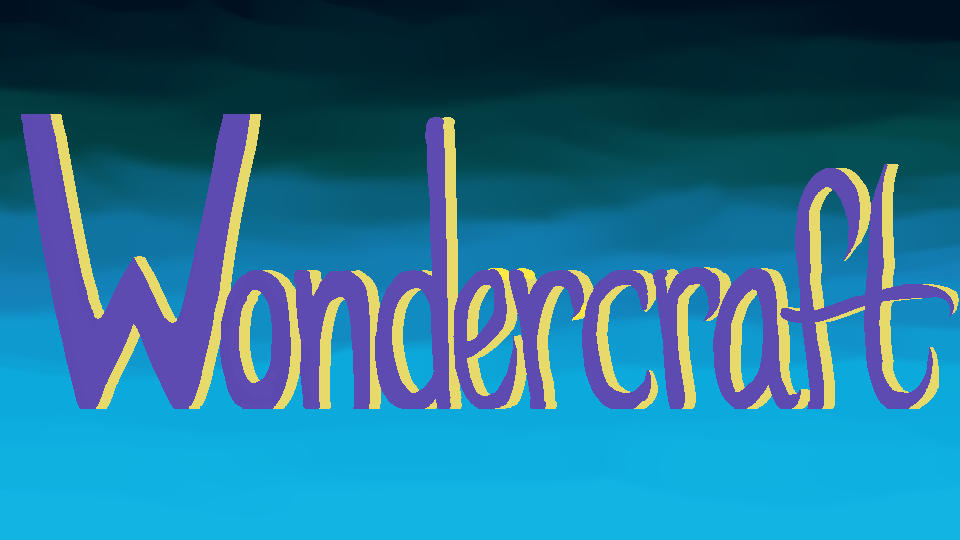
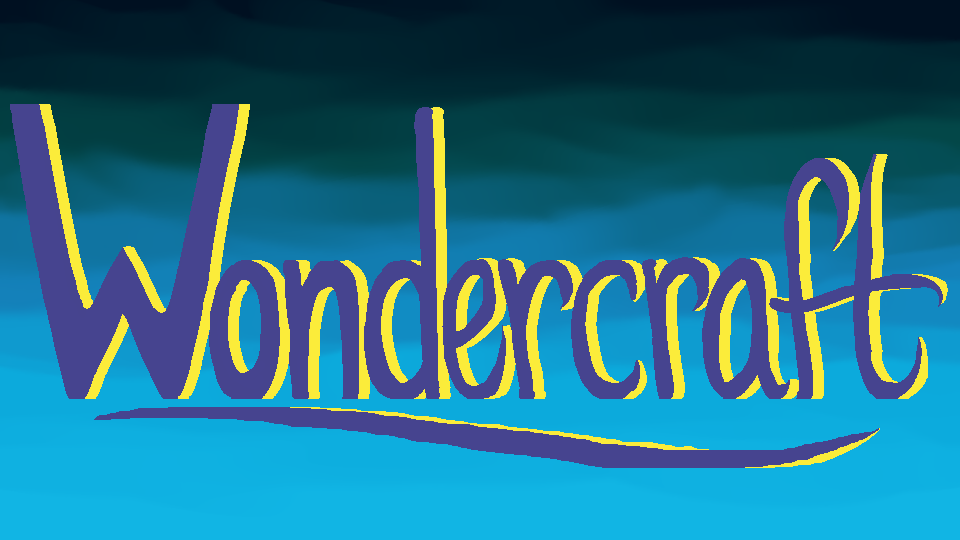
We have a titlescreen now. Hit enter to start the gaaame. also commented out the print statements, they still exist dont be mad at me plz nathan :3  (i hope this doesnt fuck up horribly oh god).

Changed region(s): [[0.0, 0.1778, 1.0, 0.8889]]

diff --git a/Wondercraft/Wondercraft/View.cpp b/Wondercraft/Wondercraft/View.cpp
@@ -22,6 +22,7 @@ View::View(Model* model) {
 	initMenuArray();
 
 	background.setTexture(*(levelTextures->get("bg.png")));
+	title.setTexture(*(menuTextures->get("titleScreen.png")));
 	
 	/*player.setTexture(*(spriteTextures->get("player.png")));
 	player.setOrigin(player.getLocalBounds().width / 2, player.getLocalBounds().height / 2); */
@@ -155,94 +156,99 @@ sf::Vector2f View::getStartingPos() {
 void View::render() {
 	window.clear();
 	
-	updateTiles();
-
-	//create a new render state for the camera displacement
-	sf::RenderStates cameraState;
-	cameraState.transform.translate(-getStartingPos() * TILE_SIZE);
-	//std::cout << -getStartingPos().x * TILE_SIZE + model->player->position.x * TILE_SIZE << " : " << getStartingPos().y * TILE_SIZE + model->player->position.y * TILE_SIZE << std::endl;
-
-	//draw background	
-	window.draw(background);
-
-	//draw tiles
-	for (int x = 0; x < displaySprites.size(); x++) {
-		for (int y = 0; y < displaySprites[x].size(); y++) {
-			window.draw(displaySprites[x][y]);
-		}
+	if (model->gameState == GameState::TITLE) {
+		window.draw(title);
 	}
+	else {
+		updateTiles();
 
-	//draw player
-	playerHat.setPosition(model->player->getPosition() * TILE_SIZE);
-	playerHat.setScale(model->player->facingRight ? 1 : -1, 1);
-	window.draw(playerHat, cameraState);
+		//create a new render state for the camera displacement
+		sf::RenderStates cameraState;
+		cameraState.transform.translate(-getStartingPos() * TILE_SIZE);
+		//std::cout << -getStartingPos().x * TILE_SIZE + model->player->position.x * TILE_SIZE << " : " << getStartingPos().y * TILE_SIZE + model->player->position.y * TILE_SIZE << std::endl;
 
-	playerRobe.setPosition(model->player->getPosition() * TILE_SIZE);
-	playerRobe.setScale(model->player->facingRight ? 1 : -1, 1);
-	window.draw(playerRobe, cameraState);
+		//draw background	
+		window.draw(background);
 
-	playerStaff.setPosition(model->player->getPosition() * TILE_SIZE);
-	playerStaff.setScale(model->player->facingRight ? 1 : -1, 1);
-	window.draw(playerStaff, cameraState);
-
-	//draw player projectiles
-	for (int i = 0; i < model->playerProjectiles.size(); i++) {
-		sf::Sprite projectile;
-		projectile.setTexture(*spriteTextures->get("fireball.png"));
-		projectile.setPosition(model->playerProjectiles[i]->getPosition() * TILE_SIZE);
-		window.draw(projectile, cameraState);
-	}
-
-	//draw enemies
-	for (int i = 0; i < model->enemies.size(); i++) {
-		sf::Sprite enemy;
-		enemy.setTexture(*spriteTextures->get("goober1.png"));
-		enemy.setPosition(model->enemies[i]->getPosition() * TILE_SIZE);
-		window.draw(enemy, cameraState);
-	}
-
-	if (model->gameState == GameState::INVENTORY) { //drawing the pause menu
-		window.draw(menu);
-
-		for (int i = 0; i < menuSquares1.size(); i++) {
-			for (int j = 0; j < menuSquares1[i].size(); j++) {
-				window.draw(menuSquares1[i][j]);
+		//draw tiles
+		for (int x = 0; x < displaySprites.size(); x++) {
+			for (int y = 0; y < displaySprites[x].size(); y++) {
+				window.draw(displaySprites[x][y]);
 			}
 		}
 
-		for (int i = 0; i < menuSquares2.size(); i++) {
-			for (int j = 0; j < menuSquares2[i].size(); j++) {
-				window.draw(menuSquares2[i][j]);
+		//draw player
+		playerHat.setPosition(model->player->getPosition() * TILE_SIZE);
+		playerHat.setScale(model->player->facingRight ? 1 : -1, 1);
+		window.draw(playerHat, cameraState);
+
+		playerRobe.setPosition(model->player->getPosition() * TILE_SIZE);
+		playerRobe.setScale(model->player->facingRight ? 1 : -1, 1);
+		window.draw(playerRobe, cameraState);
+
+		playerStaff.setPosition(model->player->getPosition() * TILE_SIZE);
+		playerStaff.setScale(model->player->facingRight ? 1 : -1, 1);
+		window.draw(playerStaff, cameraState);
+
+		//draw player projectiles
+		for (int i = 0; i < model->playerProjectiles.size(); i++) {
+			sf::Sprite projectile;
+			projectile.setTexture(*spriteTextures->get("fireball.png"));
+			projectile.setPosition(model->playerProjectiles[i]->getPosition() * TILE_SIZE);
+			window.draw(projectile, cameraState);
+		}
+
+		//draw enemies
+		for (int i = 0; i < model->enemies.size(); i++) {
+			sf::Sprite enemy;
+			enemy.setTexture(*spriteTextures->get("goober1.png"));
+			enemy.setPosition(model->enemies[i]->getPosition() * TILE_SIZE);
+			window.draw(enemy, cameraState);
+		}
+
+		if (model->gameState == GameState::INVENTORY) { //drawing the pause menu
+			window.draw(menu);
+
+			for (int i = 0; i < menuSquares1.size(); i++) {
+				for (int j = 0; j < menuSquares1[i].size(); j++) {
+					window.draw(menuSquares1[i][j]);
+				}
 			}
-		}
 
-		for (int i = 0; i < menuSquares3.size(); i++) {
-			for (int j = 0; j < menuSquares3[i].size(); j++) {
-				window.draw(menuSquares3[i][j]);
+			for (int i = 0; i < menuSquares2.size(); i++) {
+				for (int j = 0; j < menuSquares2[i].size(); j++) {
+					window.draw(menuSquares2[i][j]);
+				}
 			}
-		}
 
-		//draws the player on the menu
-		sf::Vector2f invPlayerPos(185, 135);
-		playerHat.setPosition(invPlayerPos);
-		window.draw(playerHat);
-		playerRobe.setPosition(invPlayerPos);
-		window.draw(playerRobe);
-		playerStaff.setPosition(invPlayerPos);
-		window.draw(playerStaff);
+			for (int i = 0; i < menuSquares3.size(); i++) {
+				for (int j = 0; j < menuSquares3[i].size(); j++) {
+					window.draw(menuSquares3[i][j]);
+				}
+			}
 
-		//draws the selected square
-		if (model->menu.menuSide == MenuSide::EQUIPMENT) {
-			selected.setPosition(317, 3 + (SQUARE_SIZE_Y + 2) * model->menu.equipmentIndex);
+			//draws the player on the menu
+			sf::Vector2f invPlayerPos(185, 135);
+			playerHat.setPosition(invPlayerPos);
+			window.draw(playerHat);
+			playerRobe.setPosition(invPlayerPos);
+			window.draw(playerRobe);
+			playerStaff.setPosition(invPlayerPos);
+			window.draw(playerStaff);
+
+			//draws the selected square
+			if (model->menu.menuSide == MenuSide::EQUIPMENT) {
+				selected.setPosition(317, 3 + (SQUARE_SIZE_Y + 2) * model->menu.equipmentIndex);
+			}
+			else if (model->menu.menuSide == MenuSide::CRAFTING) {
+				selected.setPosition(528 + (SQUARE_SIZE_X + 57) * model->menu.craftingIndex, 136);
+			}
+			else if (model->menu.menuSide == MenuSide::INVENTORY) {
+				selected.setPosition(84 + (SQUARE_SIZE_X + 5) * model->menu.inventoryIndex.x,
+					280 + (SQUARE_SIZE_Y + 2) * model->menu.inventoryIndex.y);
+			}
+			window.draw(selected);
 		}
-		else if (model->menu.menuSide == MenuSide::CRAFTING) {
-			selected.setPosition(528 + (SQUARE_SIZE_X + 57) * model->menu.craftingIndex, 136);
-		}
-		else if (model->menu.menuSide == MenuSide::INVENTORY) {
-			selected.setPosition(84 + (SQUARE_SIZE_X + 5) * model->menu.inventoryIndex.x,
-								280 + (SQUARE_SIZE_Y + 2) * model->menu.inventoryIndex.y);
-		}
-		window.draw(selected);
 	}
     
 	window.display();

diff --git a/Wondercraft/Wondercraft/Player.cpp b/Wondercraft/Wondercraft/Player.cpp
@@ -24,20 +24,21 @@ void Player::update(float deltaTime, Model* model) {
 
 	float threshold = 0.0001;
 
+	/*
 	cout << "bounds: " << getLeft() << ", " << getTop() << ", " << getRight() << ", " << getBottom() << endl;
-	cout << "move: " << getVelocity().x * deltaTime << ", " << getVelocity().y * deltaTime << endl << endl;
+	cout << "move: " << getVelocity().x * deltaTime << ", " << getVelocity().y * deltaTime << endl << endl; */
 	//initial step in the direction of the velocity
 	float initialStep = 1;
 	bool initialCollision = Collisions::collisionCalc(initialStep, deltaTime, *this, model->mapTiles, model->levelWidth, model->levelHeight);
 	setPosition(getPosition() + velocity * deltaTime * initialStep);
-
+	/*
 	cout << "initial collision: " << initialCollision << endl;
-	cout << "initial step: " << initialStep << endl << endl;
+	cout << "initial step: " << initialStep << endl << endl;*/
 
 	if (initialCollision) {
 		float remainder = 1 - initialStep;
-
-		cout << "bounds: " << getLeft() << ", " << getTop() << ", " << getRight() << ", " << getBottom() << endl << endl;
+		/*
+		cout << "bounds: " << getLeft() << ", " << getTop() << ", " << getRight() << ", " << getBottom() << endl << endl;*/
 
 		//the collisions are limited to axis-aligned edges,
 		//so try to take a second step in both the horizontal and vertical directions
@@ -48,9 +49,10 @@ void Player::update(float deltaTime, Model* model) {
 		setVelocity(sf::Vector2f(savedVelocity.x, 0));
 		float hStep = 1;
 		bool hCollision = Collisions::collisionCalc(hStep, deltaTime * remainder, *this, model->mapTiles, model->levelWidth, model->levelHeight);
+		/*
 		cout << "horizontal move: " << getVelocity().x * deltaTime * remainder << ", " << getVelocity().y * deltaTime * remainder << endl;
 		cout << "horizontal collision: " << hCollision << endl;
-		cout << "horizontal step: " << hStep << endl << endl;
+		cout << "horizontal step: " << hStep << endl << endl;*/
 
 		if (!hCollision && abs(getVelocity().x) > threshold) {
 			//no collision with a left or right surface, assume we collided with a top or bottom surface,
@@ -61,10 +63,10 @@ void Player::update(float deltaTime, Model* model) {
 			setVelocity(sf::Vector2f(0, savedVelocity.y));
 			float vStep = 1;
 			bool vCollision = Collisions::collisionCalc(vStep, deltaTime * remainder, *this, model->mapTiles, model->levelWidth, model->levelHeight);
-			
+			/*
 			cout << "vertical move: " << getVelocity().x * deltaTime * remainder << ", " << getVelocity().y * deltaTime * remainder << endl;
 			cout << "vertical collision: " << vCollision << endl;
-			cout << "vertical step: " << vStep << endl << endl;
+			cout << "vertical step: " << vStep << endl << endl;*/
 
 			if (!vCollision) {
 				//no collision with a top or bottom surface, assume we collided with a left or right surface,

diff --git a/Wondercraft/Wondercraft/Collisions.cpp b/Wondercraft/Wondercraft/Collisions.cpp
@@ -15,7 +15,7 @@ bool Collisions::collisionCalc(float& step, float deltaTime, Entity& movingEntit
 		Entity* e = stillEntities[i];
 
 		float currentStep = 1;
-
+		/*
 		cout << "Player position: " << movingEntity.getPosition().x << ", " << movingEntity.getPosition().y << endl;
 		cout << "Player bounds: " << movingEntity.getLeft() << ", " << movingEntity.getTop() << ", " << movingEntity.getRight() << ", " << movingEntity.getBottom() << endl;
 		cout << "Velocity * dt: " << movingEntity.getVelocity().x*deltaTime << ", " << movingEntity.getVelocity().y*deltaTime << endl;
@@ -23,7 +23,7 @@ bool Collisions::collisionCalc(float& step, float deltaTime, Entity& movingEntit
 		cout << "Tile position: " << e->getPosition().x << ", " << e->getPosition().y << endl;
 		cout << "Tile bounds: " << e->getLeft() << ", " << e->getTop() << ", " << e->getRight() << ", " << e->getBottom() << endl;
 		cout << "Step: " << currentStep << endl;
-		cout << endl;
+		cout << endl;*/
 
 		if (!movingEntity.collisionCalc(currentStep, deltaTime, *e))
 			continue;

diff --git a/Wondercraft/Wondercraft/Controller.cpp b/Wondercraft/Wondercraft/Controller.cpp
@@ -42,6 +42,11 @@ void Controller::inputs() {
 					model->menu.selectionDown();
 				}
 			}
+			else if (model->gameState == GameState::TITLE) { //if they're on the title screen
+				if (event.key.code == sf::Keyboard::Return) { //and they hit enter
+					model->gameState = GameState::PLAYING;    //they start playin
+				}
+			}
 		}
 	}
 
@@ -70,7 +75,7 @@ void Controller::inputs() {
 			sf::Vector2f playerVec = sf::Vector2f(((-view->getStartingPos().x)*view->TILE_SIZE) + (model->player->getPosition().x * view->TILE_SIZE), ((model->player->getPosition().y * view->TILE_SIZE) - (view->getStartingPos().y*view->TILE_SIZE)));
 
 			if (model->player->projectileTimer == 0) {
-				int projectileType = 2;
+				int projectileType = 1;
 
 				/*
 				if (projectileType == 1) {

diff --git a/Wondercraft/Wondercraft/Projectile.cpp b/Wondercraft/Wondercraft/Projectile.cpp
@@ -50,7 +50,7 @@ void Projectile::explode() {
 void Projectile::setBehaviour() {
 	if (projectileType == FIREBALL) {
 
-		velocity = sf::Vector2f((diffVector.x / magnitude) * 5, (diffVector.y / magnitude) * 5);
+		velocity = sf::Vector2f(5, 0);//(diffVector.x / magnitude) * 5, (diffVector.y / magnitude) * 5);
 	}
 	else if (projectileType == FIRE_BOMB) {
 

diff --git a/Wondercraft/Wondercraft/Model.cpp b/Wondercraft/Wondercraft/Model.cpp
@@ -13,7 +13,8 @@ Model::Model() {
 
 	player = new Player(playerSpawn);
 
-	gameState = GameState::PLAYING;
+	//gameState = GameState::PLAYING;
+	gameState = GameState::TITLE;
 }
 
 Model::~Model() {

diff --git a/Wondercraft/Wondercraft/View.hpp b/Wondercraft/Wondercraft/View.hpp
@@ -22,6 +22,7 @@ public:
 
 	sf::Sprite background;
 	//sf::Sprite player;
+	sf::Sprite title;
 
 	sf::Sprite playerHat;
 	sf::Sprite playerRobe;

diff --git a/Wondercraft/Wondercraft/Model.hpp b/Wondercraft/Wondercraft/Model.hpp
@@ -12,7 +12,8 @@
 namespace GameState {
 	enum GameState {
 		PLAYING,
-		INVENTORY
+		INVENTORY,
+		TITLE
 	};
 }
 
